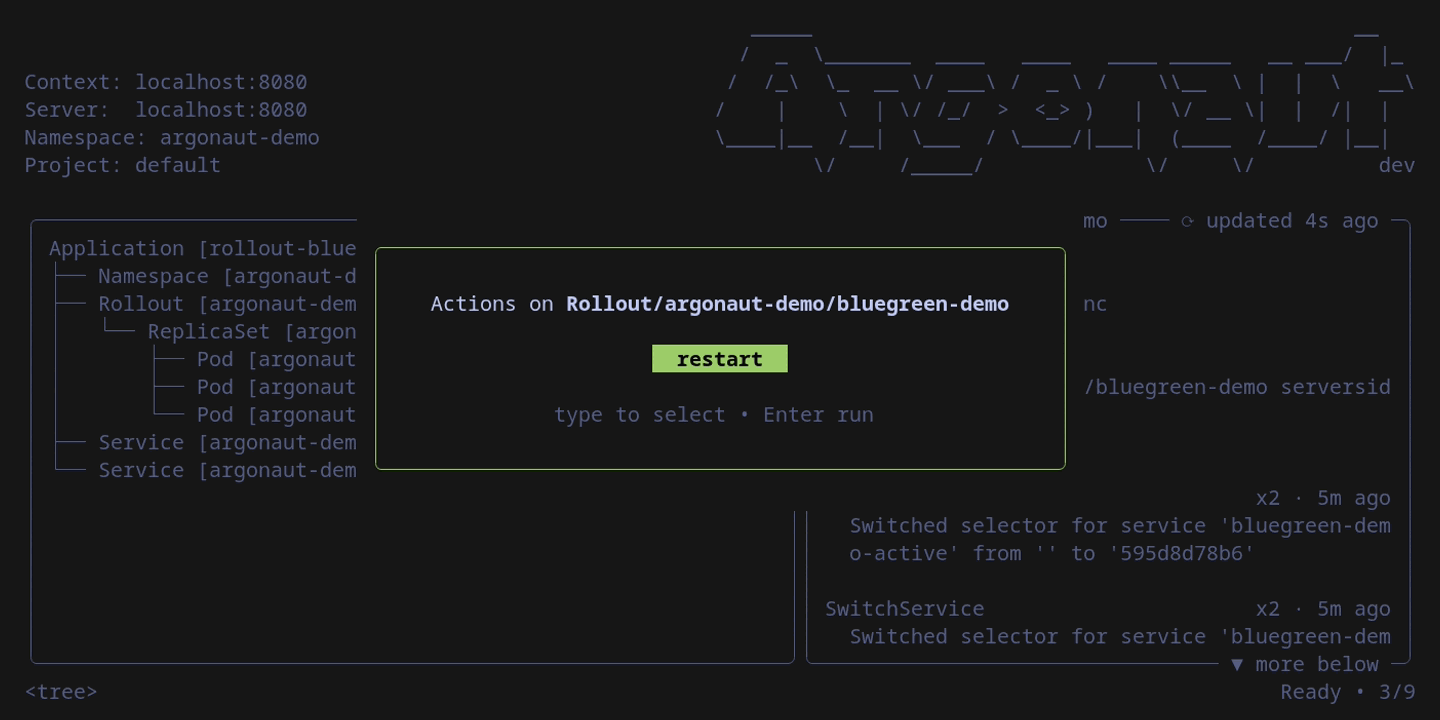
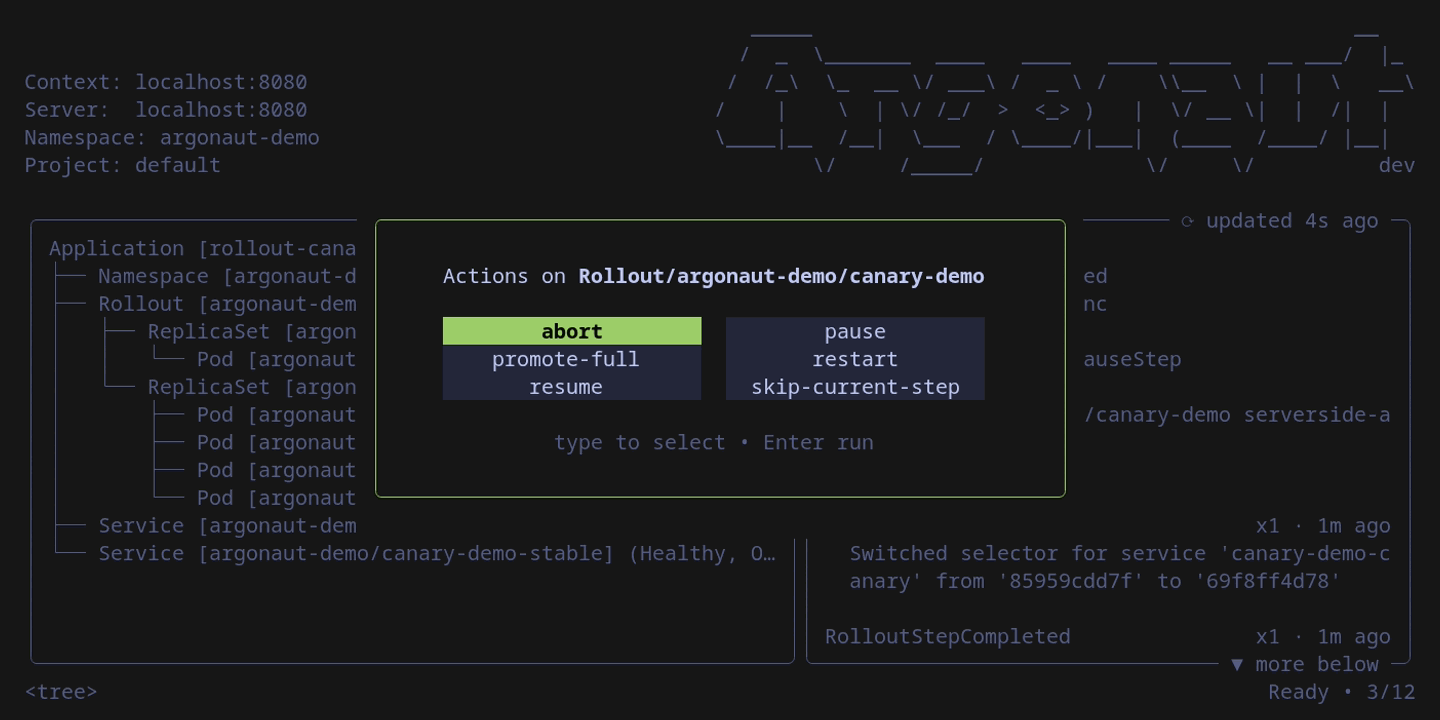
docs: actions screenshot on a mid-update canary rollout (full action set)

diff --git a/assets/README.md b/assets/README.md
@@ -25,6 +25,12 @@ argocd app sync rollout-bluegreen
 # fresh pod-level events on every pod (pod names are random, so the tapes
 # can't target one specific pod — refresh them all)
 kubectl --context k3d-argocd-demo -n argonaut-demo delete pods -l app=bluegreen-demo
+
+# a paused mid-update rollout, so the actions modal shows the full Argo
+# Rollouts set (abort, promote-full, resume, skip-current-step, …) instead
+# of just restart; sync the app afterwards to revert
+kubectl --context k3d-argocd-demo -n argonaut-demo patch rollout canary-demo \
+  --type json -p '[{"op":"replace","path":"/spec/template/spec/containers/0/image","value":"nginx:1.26"}]'
 ```
 
 Build the binary the tapes launch:
